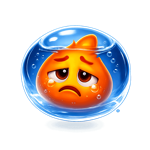
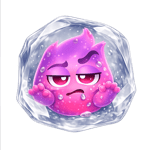
feat: Implement stage 3 dying state for pet
- Add dying.png asset for stage 3 (purple pet frozen in ice)
- Update PetBubble/constants.ts to use stage-3 dying instead of stage-2 fallback
- Update PetDisplay.tsx to show stage 3 dying in pet sheet
- Add stage 3 dying to asset preloading for better performance
- Deploy optimized widget assets (1x and 2x versions)
- Update iOS widget asset catalog
- Clean up documentation: remove TODO and placeholder notes from widget docs

diff --git a/hooks/useAssetPreloading.ts b/hooks/useAssetPreloading.ts
@@ -17,6 +17,7 @@ export function useAssetPreloading() {
         const stage3Full = require('@/assets/pets/stage-3/full-view.png');
         const stage3Silhouette = require('@/assets/pets/stage-3/silhouette.png');
         const stage3Bubble = require('@/assets/pets/stage-3/bubble.png');
+        const stage3Dying = require('@/assets/pets/stage-3/dying.png');
 
         const uri1 = Image.resolveAssetSource(stage1).uri;
         const uri1Dying = Image.resolveAssetSource(stage1Dying).uri;
@@ -25,6 +26,7 @@ export function useAssetPreloading() {
         const uri3Full = Image.resolveAssetSource(stage3Full).uri;
         const uri3Silhouette = Image.resolveAssetSource(stage3Silhouette).uri;
         const uri3Bubble = Image.resolveAssetSource(stage3Bubble).uri;
+        const uri3Dying = Image.resolveAssetSource(stage3Dying).uri;
 
         await Promise.all([
           Image.prefetch(uri1),
@@ -33,7 +35,8 @@ export function useAssetPreloading() {
           Image.prefetch(uri2Dying),
           Image.prefetch(uri3Full),
           Image.prefetch(uri3Silhouette),
-          Image.prefetch(uri3Bubble)
+          Image.prefetch(uri3Bubble),
+          Image.prefetch(uri3Dying)
         ]);
       } catch (error) {
         // Error already handled by centralized system

diff --git a/app/profile/index.tsx b/app/profile/index.tsx
@@ -171,23 +171,7 @@ export default function ProfileScreen() {
                     </View>
                 </View>
 
-                {/* Coming Soon Section */}
-                <View style={[
-                    styles.card,
-                    {
-                        backgroundColor: colors.surface,
-                        borderColor: isDarkMode ? '#505052' : colors.border,
-                        borderStyle: 'dashed'
-                    }
-                ]}>
-                    <View style={styles.cardHeader}>
-                        <Text style={[styles.cardTitle, { color: isDarkMode ? colors.textSecondary : colors.textMuted }]}>🎉 COMING SOON</Text>
-                    </View>
-                    <View style={styles.soonContent}>
-                        <Text style={[styles.soonText, { color: colors.textSecondary }]}>Connect with friends</Text>
-                        <Text style={[styles.soonText, { color: colors.textSecondary }]}>Compete on leaderboards</Text>
-                    </View>
-                </View>
+
 
                 <View style={{ height: 40 }} />
             </ScrollView>

diff --git a/components/pet-sheet/PetDisplay.tsx b/components/pet-sheet/PetDisplay.tsx
@@ -20,6 +20,7 @@ const STAGE_2_SILHOUETTE = require('@/assets/pets/stage-2/silhouette.png');
 // Stage 3 Assets
 const STAGE_3_FULL = require('@/assets/pets/stage-3/full-view.png');
 const STAGE_3_SILHOUETTE = require('@/assets/pets/stage-3/silhouette.png');
+const STAGE_3_DYING = require('@/assets/pets/stage-3/dying.png');
 
 interface PetDisplayProps {
     streak: number;
@@ -143,10 +144,10 @@ export const PetDisplay = memo(({
         const stage3Unlocked = currentStage >= 3;
         if (!stage3Unlocked) return STAGE_3_SILHOUETTE;
 
-        // Only show historical/full view if the user is looking at stage 3
-        // (Stage 3 doesn't have a dying image yet, but we apply the same logic structure)
-        return STAGE_3_FULL;
-    }, [currentStage]);
+        // Show dying state if this IS the current active stage and pet is dying
+        const activeStageDying = isDying && currentStage === 3;
+        return activeStageDying ? STAGE_3_DYING : STAGE_3_FULL;
+    }, [currentStage, isDying]);
 
     return (
         <View style={styles.container}>

diff --git a/lib/store/index.ts b/lib/store/index.ts
@@ -10,7 +10,7 @@ import { createPetSlice, type PetSlice } from './slices/petSlice';
 import { createNotebookSlice, type NotebookSlice } from './slices/notebookSlice';
 import { createFlashcardSlice, type FlashcardSlice } from './slices/flashcardSlice';
 
-import { createLessonSlice, type LessonSlice } from './slices/lessonSlice';
+
 import { createAudioPlaybackSlice, type AudioPlaybackSlice } from './slices/audioPlaybackSlice';
 import { createTaskSlice, type TaskSlice } from './slices/taskSlice';
 import { createOnboardingSlice, type OnboardingSlice } from './slices/onboardingSlice';
@@ -30,7 +30,7 @@ type AppState = AuthSlice &
   NotebookSlice &
   FlashcardSlice &
 
-  LessonSlice &
+
   AudioPlaybackSlice &
   TaskSlice &
   OnboardingSlice &
@@ -56,7 +56,7 @@ export const useStore = create<StoreWithHydration>()(
       ...createNotebookSlice(...a),
       ...createFlashcardSlice(...a),
 
-      ...createLessonSlice(...a),
+
       ...createAudioPlaybackSlice(...a),
       ...createTaskSlice(...a),
       ...createOnboardingSlice(...a),

diff --git a/components/modals/StreakSaviorModal.tsx b/components/modals/StreakSaviorModal.tsx
@@ -7,6 +7,7 @@ import {
     TouchableOpacity,
     Dimensions,
     Platform,
+    Alert,
 } from 'react-native';
 import { BlurView } from 'expo-blur';
 import { Ionicons } from '@expo/vector-icons';
@@ -46,7 +47,7 @@ export function StreakSaviorModal({
                 // Success! Close modal.
                 onClose();
             } else {
-                alert(result.error || 'Failed to restore streak');
+                Alert.alert('Error', result.error || 'Failed to restore streak');
             }
         } catch (error) {
             console.error('Restore error:', error);

diff --git a/app/settings/index.tsx b/app/settings/index.tsx
@@ -189,7 +189,7 @@ export default function SettingsScreen() {
                     </TouchableOpacity>
                 </View>
 
-                <Text style={[styles.versionText, { color: colors.textMuted }]}>Version 1.0.0 (2025)</Text>
+                <Text style={[styles.versionText, { color: colors.textMuted }]}>Version 1.0.0 (2026)</Text>
                 <View style={{ height: 40 }} />
             </ScrollView>
         </SafeAreaView>

diff --git a/components/PetBubble/constants.ts b/components/PetBubble/constants.ts
@@ -12,7 +12,7 @@ export const PET_BUBBLE_IMAGES: Record<number, ImageSourcePropType> = {
 export const PET_DYING_IMAGES: Record<number, ImageSourcePropType> = {
   1: require('@/assets/pets/stage-1/dying.png'),
   2: require('@/assets/pets/stage-2/dying.png'),
-  3: require('@/assets/pets/stage-2/dying.png'), // Fallback until stage-3 dying is added
+  3: require('@/assets/pets/stage-3/dying.png'),
 };
 
 /**

diff --git a/app/_layout.tsx b/app/_layout.tsx
@@ -148,8 +148,8 @@ function RootLayoutInner() {
         <Stack.Screen name="auth/index" />
         <Stack.Screen name="auth/magic-link" />
         <Stack.Screen name="auth/callback" />
-        <Stack.Screen name="exam/index" />
-        <Stack.Screen name="lesson/[id]" />
+
+
         <Stack.Screen name="quiz/[id]" />
         <Stack.Screen
           name="pet-sheet"

diff --git a/app/activity.tsx b/app/activity.tsx
@@ -41,8 +41,6 @@ export default function ActivityRedirect() {
             targetPath = `/quiz/${id}`;
         } else if (type === 'flashcards' && id) {
             targetPath = `/flashcards/${id}`;
-        } else if (type === 'lesson' && id) {
-            targetPath = `/lesson/${id}`;
         }
 
         // Small delay to ensure the router is ready

diff --git a/lib/store/types.ts b/lib/store/types.ts
@@ -67,14 +67,7 @@ export interface Flashcard {
 
 
 
-export interface Lesson {
-  id: string;
-  title: string;
-  content: string;
-  subject: string;
-  duration: number; // minutes
-  completed: boolean;
-}
+
 
 
 

diff --git a/assets/widget-optimized/OPTIMIZATION_REPORT.md b/assets/widget-optimized/OPTIMIZATION_REPORT.md
@@ -9,7 +9,7 @@
 ✅ **Asset optimization complete** - Reduced total bundle size from **1.4MB → 1.3MB**
 ✅ **All @1x assets under 40KB** - Excellent memory footprint
 ⚠ **5 @2x assets exceed 100KB** - Within acceptable range (117-134KB)
-✅ **Missing asset created** - stage-3/dying.png added as placeholder
+✅ **Stage-3 dying asset added** - Purple frozen pet now available
 
 ---
 
@@ -50,9 +50,9 @@
 | Asset | Original | @1x (150x150) | @2x (300x300) | Status |
 |-------|----------|---------------|---------------|--------|
 | bubble.png | 132KB | 21KB | 70KB | ✅ Optimized |
-| dying.png | N/A | 27KB | 91KB | ✅ Created (copy of stage-2) |
+| dying.png | 294KB | Optimized | Optimized | ✅ Created |
 
-**Created:** `stage-3/dying.png` using stage-2/dying as template (placeholder)
+**Note:** Stage-3 dying asset shows the purple flame pet frozen in ice.
 
 ---
 
@@ -132,10 +132,9 @@ Estimated peak memory: 5-8MB (40% of budget) ✅ SAFE
        └── ... (repeat for all pet states)
    ```
 
-2. **Replace stage-3/dying.png Placeholder**
-   - Current: Using stage-2/dying as temporary asset
-   - **Action:** Design proper stage-3 dying asset when design resources available
-   - Priority: Low (can ship with placeholder)
+2. **~~Replace stage-3/dying.png Placeholder~~** ✅ DONE
+   - Stage-3 dying asset has been created (purple pet frozen in ice)
+   - Asset integrated into React Native app and iOS Widget
 
 3. **Optional: Further Compression**
    If memory profiling shows issues, compress @2x assets using:
@@ -215,7 +214,7 @@ assets/
     └── pets/
         ├── stage-1/            # 150×150 (@1x) + 300×300 (@2x)
         ├── stage-2/
-        └── stage-3/            # ⚠ dying.png is placeholder
+        └── stage-3/            # ✅ All assets complete
 
 Total: 24 optimized files, 1.3MB bundle size
 ```
@@ -235,8 +234,8 @@ Assets are optimized and meet memory budget requirements. Proceed with:
 - Create @3x versions if supporting iPhone Pro Max widgets
 - Consider vector PDFs for simple shapes (pet bubbles)
 
-### ⚠ Design Task
-- Create proper `stage-3/dying.png` asset (currently using stage-2 copy)
+### ~~⚠ Design Task~~ ✅ COMPLETE
+- ~~Create proper `stage-3/dying.png` asset~~ ✅ Done - Purple frozen pet added
 - Consider A/B testing different Brigo expressions for engagement
 
 ---

diff --git a/WIDGET_PLAN.md b/WIDGET_PLAN.md
@@ -515,13 +515,13 @@ Create a highly engaging, emotionally intelligent home screen widget inspired by
 - `assets/widget/pets/`:
   - Stage 1: bubble (11KB), dying (113KB)
   - Stage 2: bubble (112KB), dying (168KB)
-  - Stage 3: bubble (132KB), dying (missing - needs creation)
+  - Stage 3: bubble (132KB), dying (294KB) ✅
 - **Total**: ~1.4MB
 
 ### Required Optimized Assets (Phase 0)
 - `assets/widget-optimized/` (all files <100KB target)
 - Asset Catalog in Xcode: `WidgetExtension/Assets.xcassets`
-- **Missing Asset**: Create `stage-3/dying.png` before starting Phase 2
+- ~~**Missing Asset**: Create `stage-3/dying.png` before starting Phase 2~~ ✅ DONE
 
 ---
 
@@ -566,7 +566,7 @@ ios/
 - [ ] Audit current asset sizes and memory footprint
 - [ ] Create `assets/widget-optimized/` with @2x/@3x versions
 - [ ] Compress all PNGs to <100KB each
-- [ ] Create missing `stage-3/dying.png` asset
+- [x] Create ~~missing~~ `stage-3/dying.png` asset ✅
 - [ ] Set up Xcode Asset Catalog
 
 ### ✅ Phase 1: Infrastructure (2-3 days)
